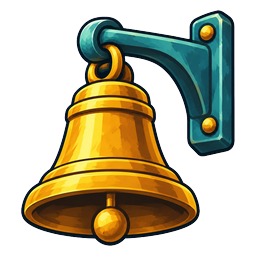
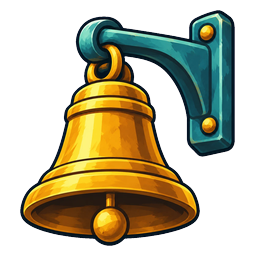
Add five more Stormglass Keep symbols; make cut-out safe for purple art
Claude-Session: https://claude.ai/code/session_016UNRkfpdTyJKxmszaXcVRg

diff --git a/art/process.py b/art/process.py
@@ -10,7 +10,7 @@ import glob
 import os
 
 import numpy as np
-from PIL import Image, ImageFilter
+from PIL import Image, ImageDraw, ImageFilter
 
 HERE = os.path.dirname(os.path.abspath(__file__))
 RAW = os.path.join(HERE, "raw")
@@ -22,21 +22,37 @@ SYMBOLS = ["h1", "h2", "h3", "h4", "l1", "l2", "l3", "l4", "l5", "w", "s"]
 
 
 def key_out_magenta(image):
-    """Return RGBA with the magenta background transparent and fringe colour removed."""
-    rgb = np.asarray(image.convert("RGB")).astype(np.float32)
-    r, g, b = rgb[..., 0], rgb[..., 1], rgb[..., 2]
-    # "magenta-ness": how far red and blue both sit above green
-    excess = np.minimum(r, b) - g
-    alpha = np.clip((150.0 - excess) / 90.0, 0.0, 1.0)  # >=150 fully background, <=60 fully kept
-    # despill: pull red/blue back towards green where a magenta cast remains on edge pixels
-    spill = np.clip(excess, 0, None) * (alpha < 1.0)
-    rgb[..., 0] = r - spill * 0.9
-    rgb[..., 2] = b - spill * 0.9
-    out = np.dstack([np.clip(rgb, 0, 255), alpha * 255.0]).astype(np.uint8)
-    result = Image.fromarray(out, "RGBA")
-    # shave half a pixel off the edge so no fringe survives
-    a = result.getchannel("A").filter(ImageFilter.MinFilter(3)).filter(ImageFilter.GaussianBlur(0.6))
-    result.putalpha(a)
+    """Return RGBA with the magenta background transparent.
+
+    Only background connected to the image border is removed (flood fill from the edges), so
+    purple or pink areas inside a symbol's outline are never eaten by the key.
+    """
+    rgb = image.convert("RGB")
+    marker = (1, 254, 3)  # a colour that does not occur in the art
+    filled = rgb.copy()
+    w, h = filled.size
+    step = max(1, min(w, h) // 40)
+    seeds = [(x, y) for x in range(0, w, step) for y in (0, h - 1)] + [(x, y) for y in range(0, h, step) for x in (0, w - 1)]
+    for seed in seeds:
+        r, g, b = filled.getpixel(seed)
+        if min(r, b) - g > 120:  # still magenta, i.e. not already filled and not part of the art
+            ImageDraw.floodfill(filled, seed, marker, thresh=110)
+    background = np.all(np.asarray(filled) == marker, axis=-1)
+
+    pixels = np.asarray(rgb).astype(np.float32)
+    # enclosed holes (a key's bow, an anchor's ring): remove only near-pure magenta there
+    pure_magenta = (pixels[..., 0] > 215) & (pixels[..., 2] > 215) & (pixels[..., 1] < 70)
+    background |= pure_magenta
+    alpha = Image.fromarray(((~background) * 255).astype(np.uint8))
+    # shave the outer pixel and soften, so no magenta fringe survives on the outline
+    alpha = alpha.filter(ImageFilter.MinFilter(3)).filter(ImageFilter.GaussianBlur(0.8))
+    # despill only in a thin band next to the removed background
+    near_background = np.asarray(Image.fromarray((background * 255).astype(np.uint8)).filter(ImageFilter.MaxFilter(7))) > 0
+    excess = np.clip(np.minimum(pixels[..., 0], pixels[..., 2]) - pixels[..., 1], 0, None) * near_background
+    pixels[..., 0] -= excess * 0.9
+    pixels[..., 2] -= excess * 0.9
+    result = Image.fromarray(np.clip(pixels, 0, 255).astype(np.uint8), "RGB").convert("RGBA")
+    result.putalpha(alpha)
     return result
 
 
